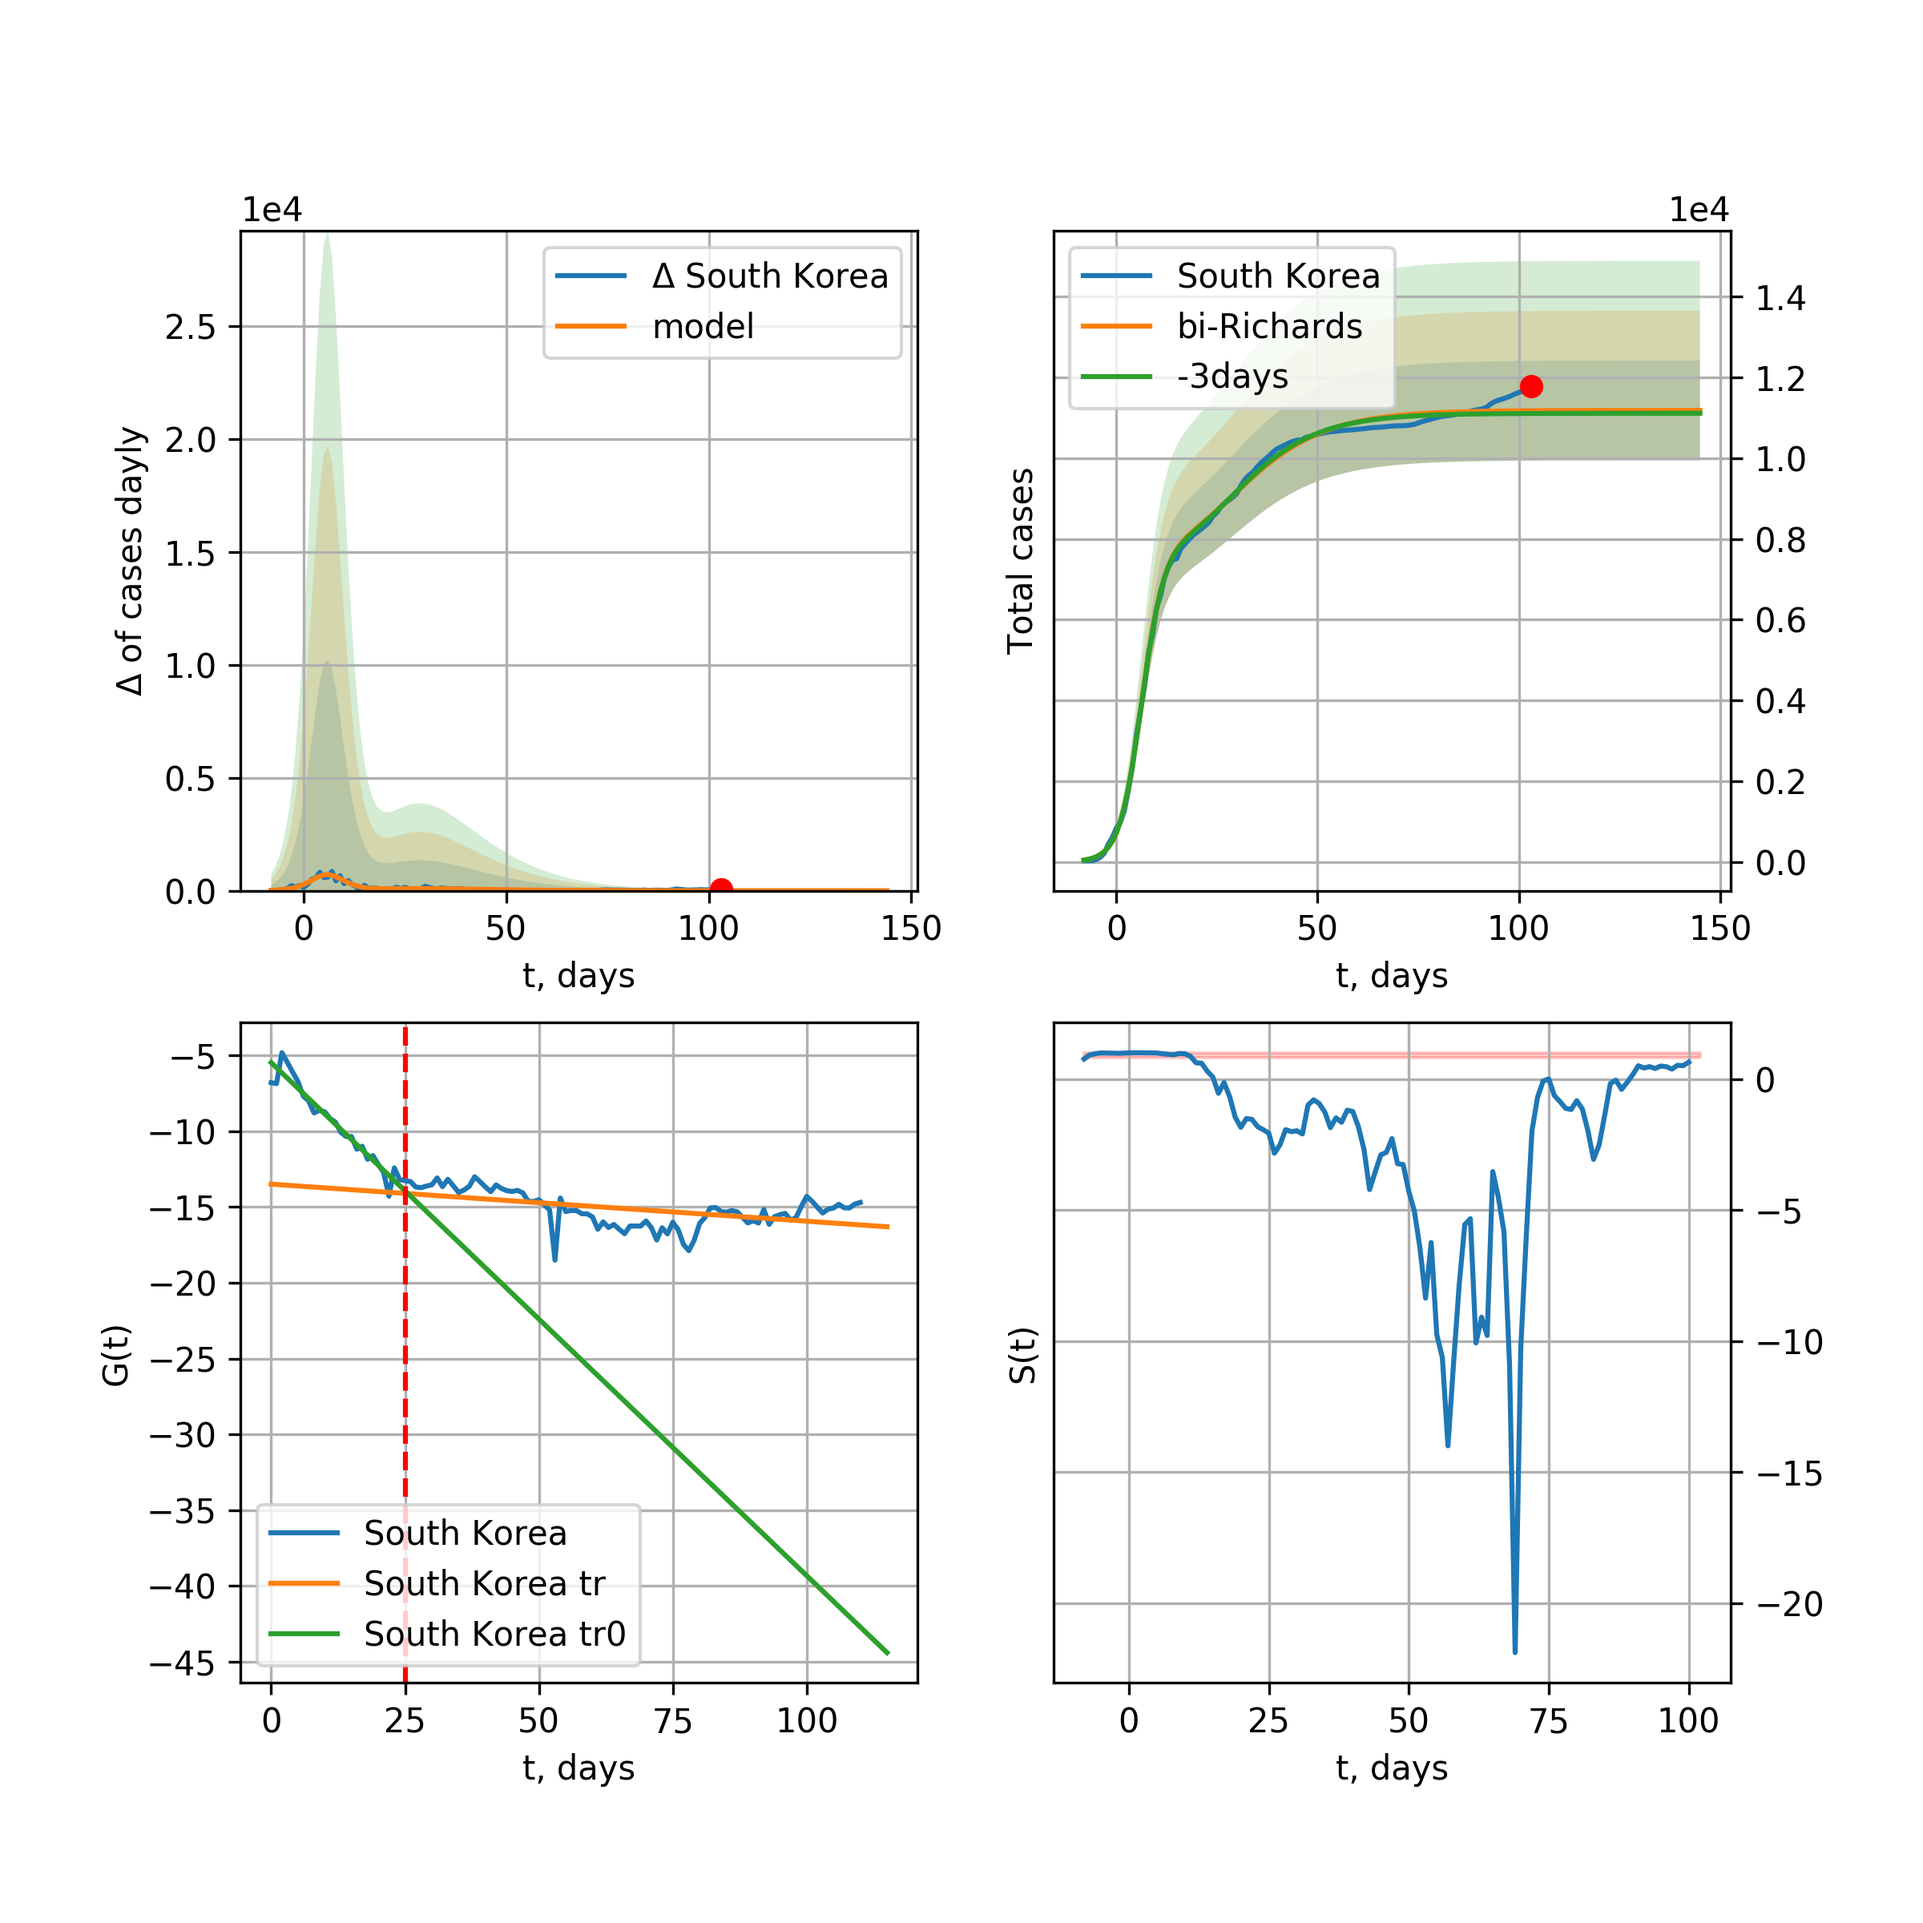
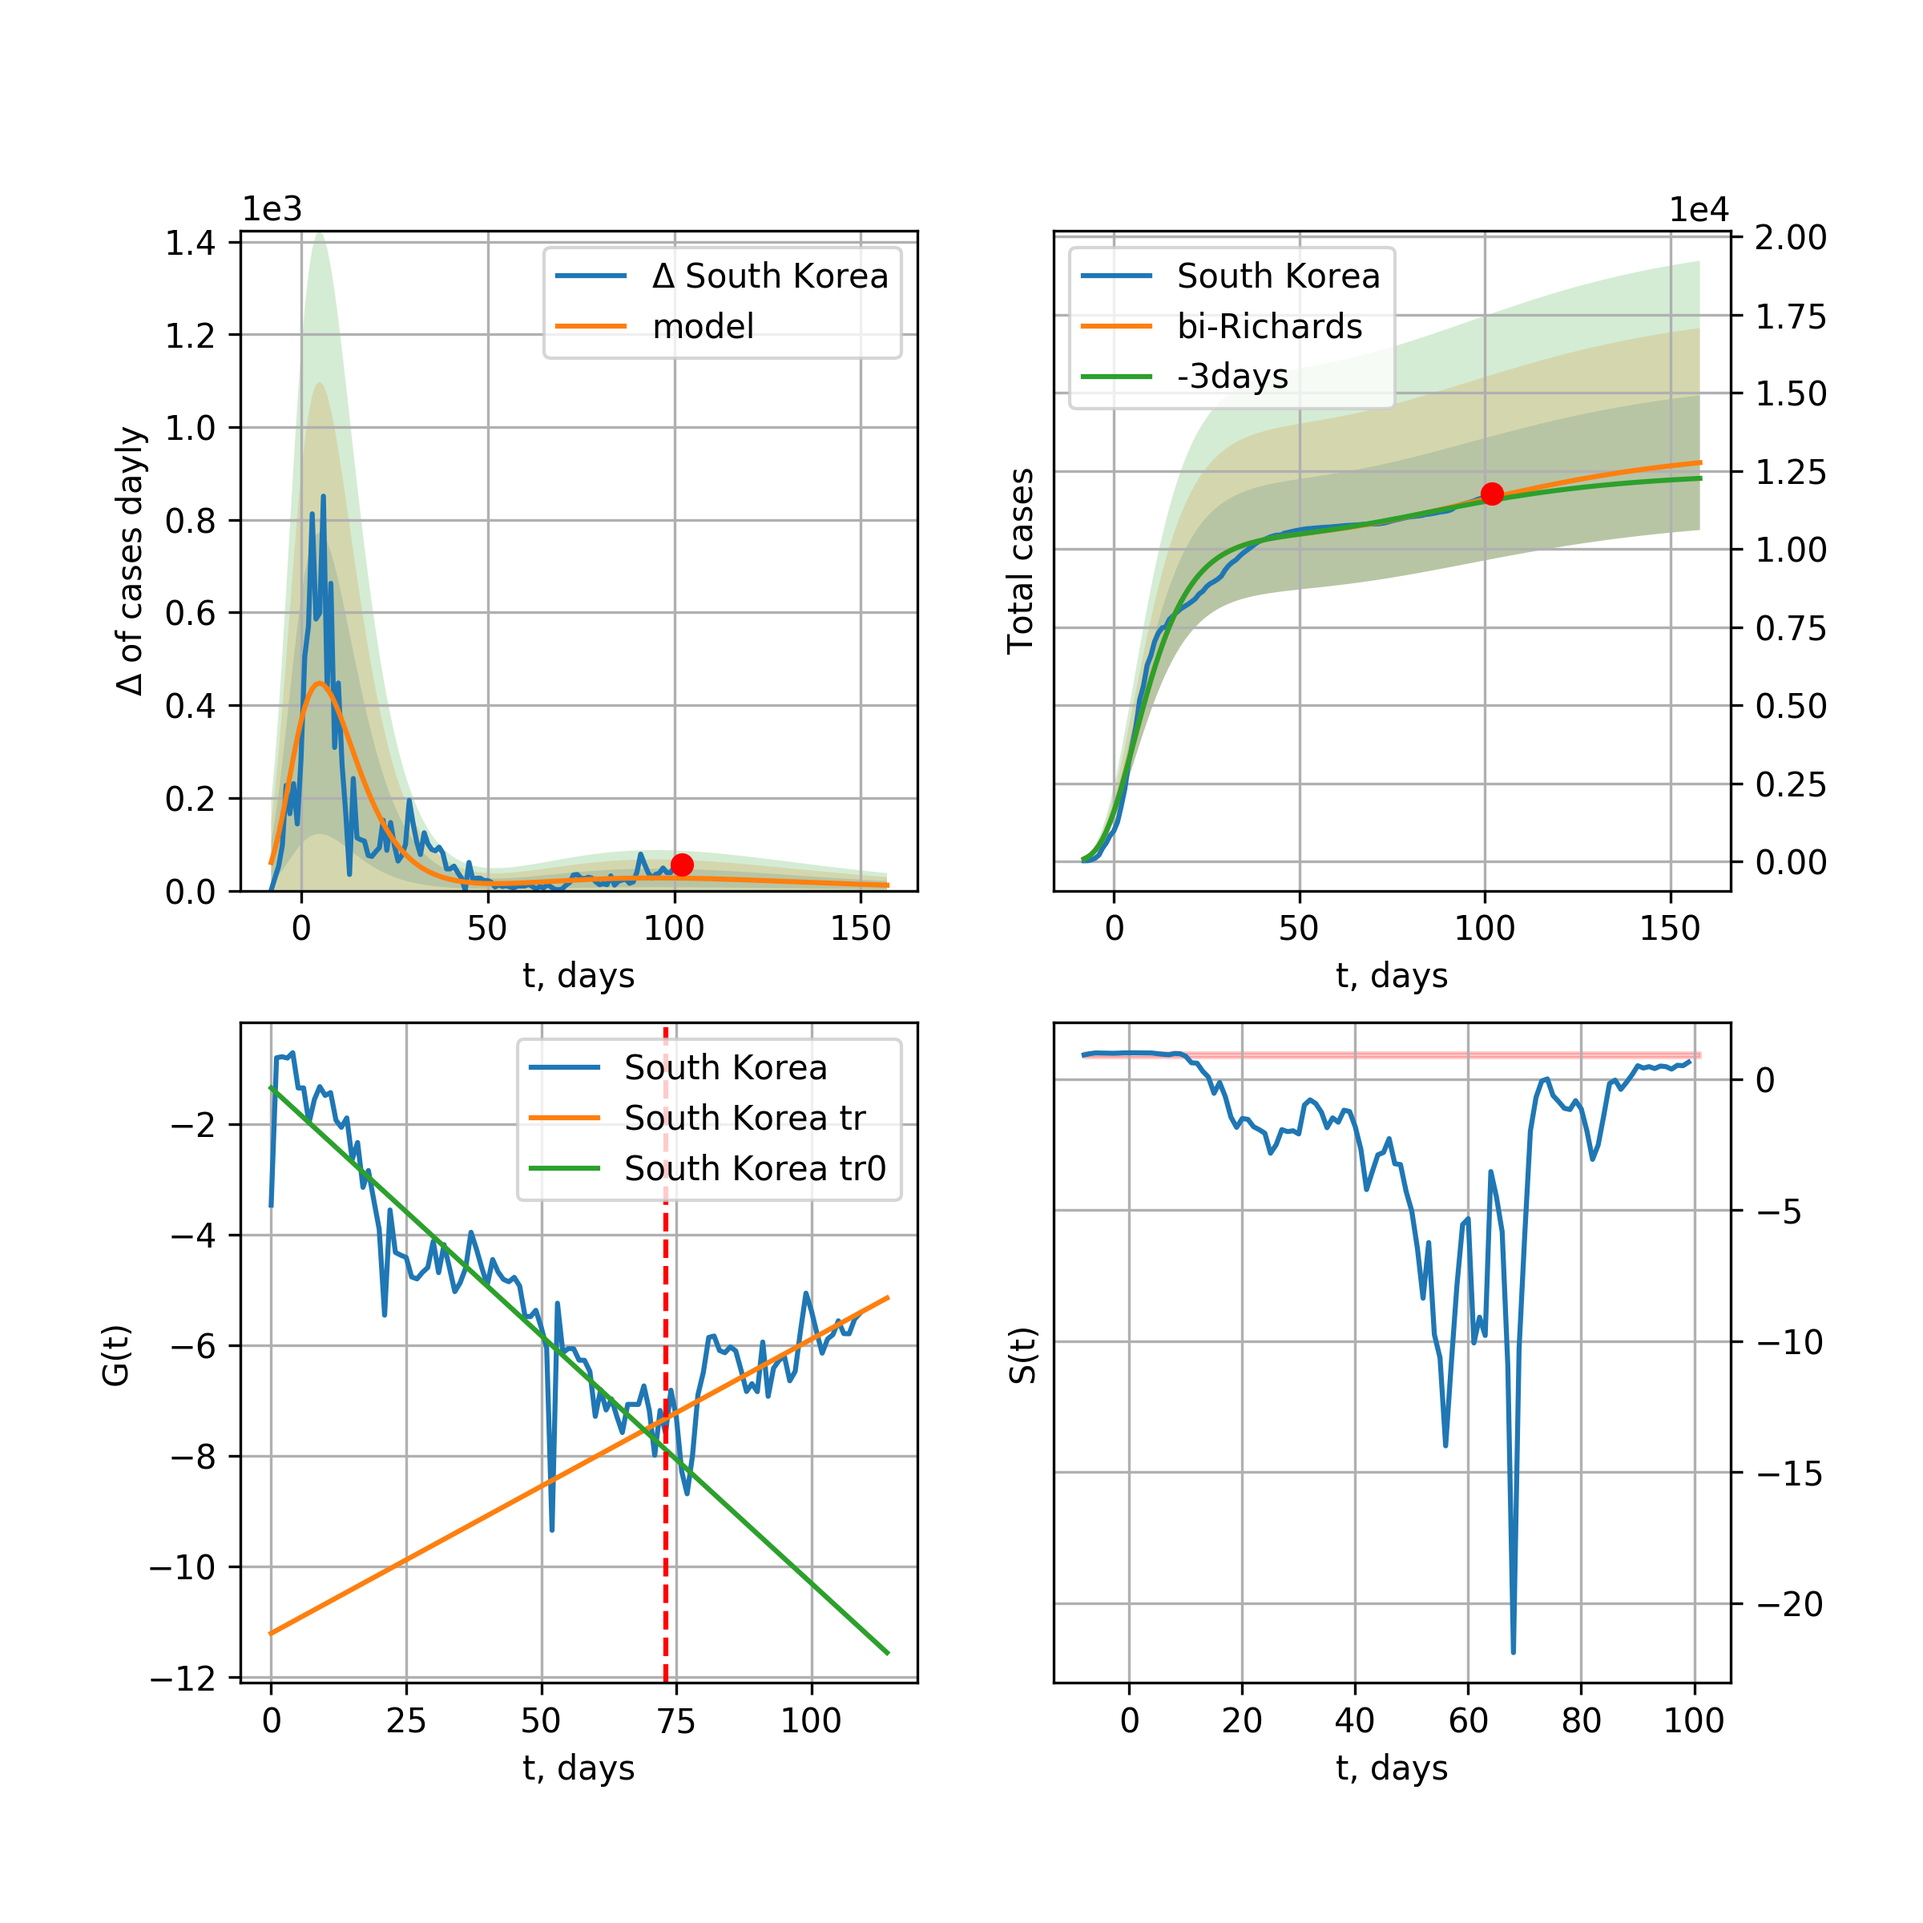
KR renew 2020-06-06

diff --git a/_site/index.html b/_site/index.html
@@ -874,21 +874,20 @@ trend coefficient of determination: 0.033948 <br />
     <img src="pictures/covidcasesSouth_Korea100_R.png" alt="hi" class="inline"/><br /> 
 
       South Korea data at: 2020-06-06<br />
-+3 day model MAPE: 0.006110<br />
++3 day model MAPE: 0.007932<br />
 model: bi-Richards<br />
-coeffs: [ 3.28026313e+03  1.70506308e-01 -8.46065821e+01 -1.73709746e+03
-  2.42545254e-04]<br />
-rational stdev: 0.110469<br />
-forecast at the end of period: +42 days<br />
-	 deltaDaycases: 0<br />
-	 total cases: 11186 ± 1235<br />
-	 total death: 259 ± 85<br />
-bi-logisticQ approximation splitting point: 25<br />
-trend coefficient of determination: 0.936460 <br />
- intercept: -5.478818 <br />
- slope: -0.338423<br />trend coefficient of determination: 0.265553 <br />
- intercept: -13.496598 <br />
- slope: -0.024432<br />
+coeffs: [ 2.82679077e+03  2.66953057e+00 -7.76710849e+01  9.96449247e-03]<br />
+rational stdev: 0.168664<br />
+forecast at the end of period: +56 days<br />
+	 deltaDaycases: 11<br />
+	 total cases: 12769 ± 2153<br />
+	 total death: 296 ± 149<br />
+bi-Richards approximation splitting point: 73<br />
+trend coefficient of determination: 0.865846 <br />
+ intercept: -1.350249 <br />
+ slope: -0.089538<br />trend coefficient of determination: 0.507093 <br />
+ intercept: -11.209382 <br />
+ slope: 0.053174<br />
           <br /> 
     
     
